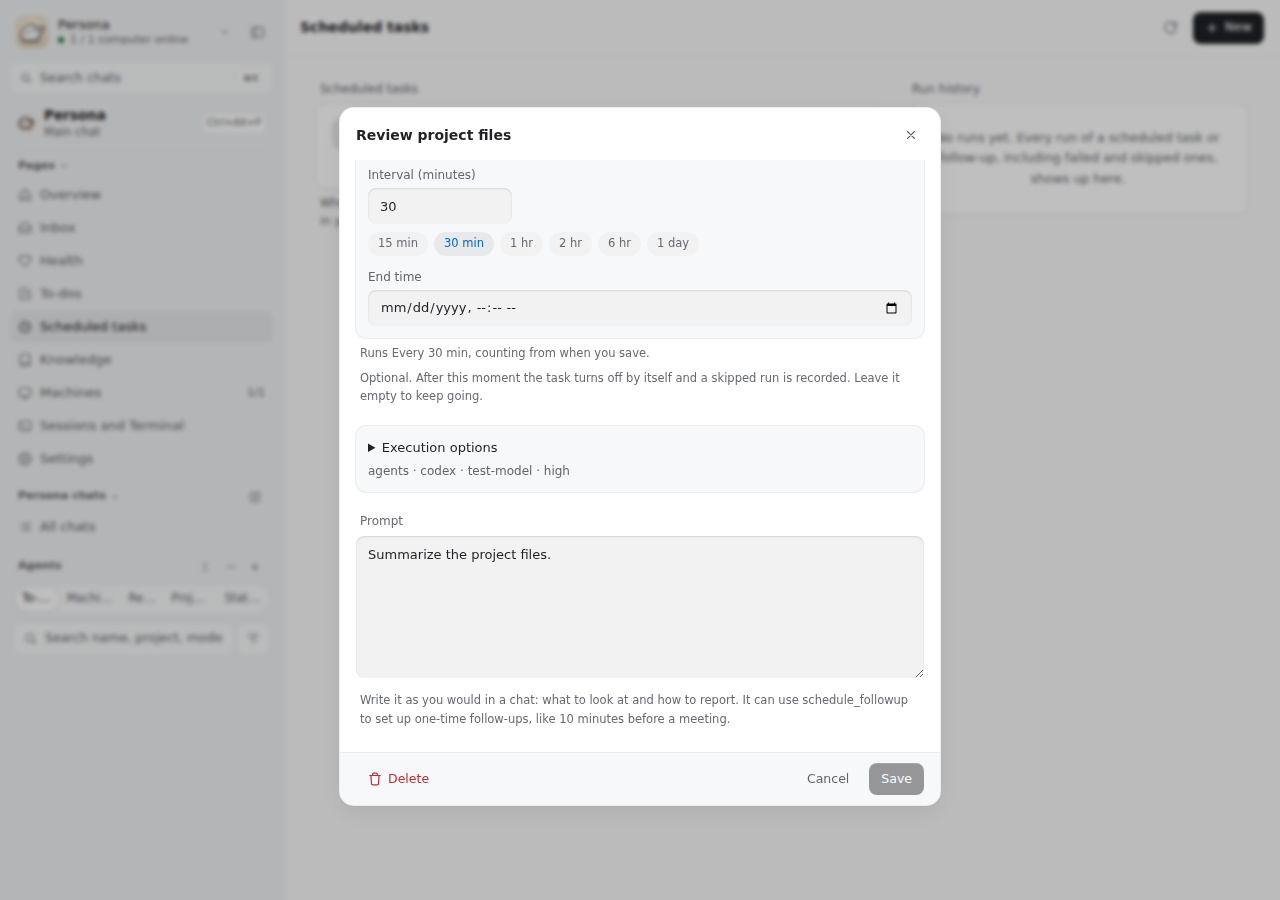
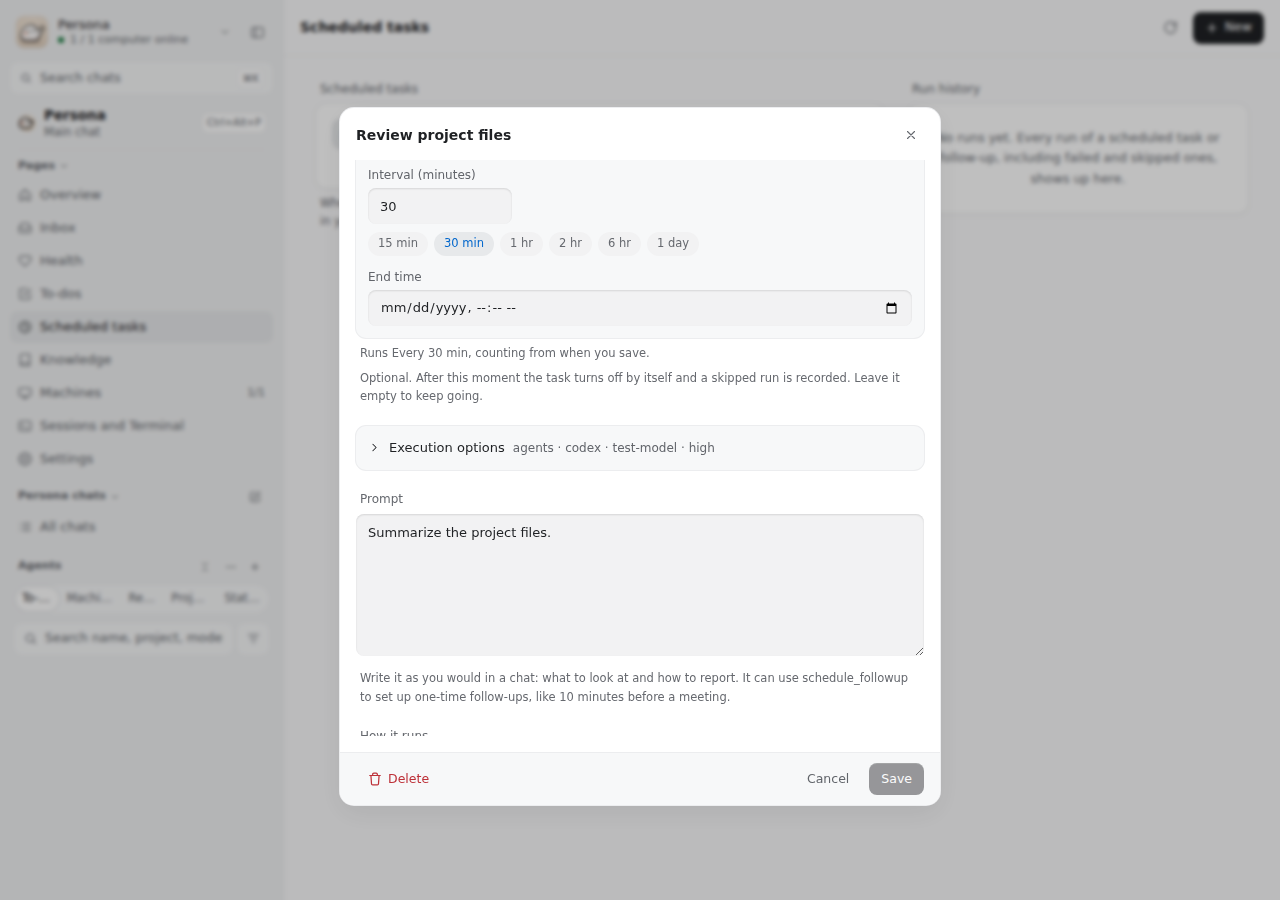
Unify task execution summaries and preserve legacy defaults

Changed region(s): [[0.2812, 0.7467, 0.7188, 0.8089], [0.2812, 0.4978, 0.4688, 0.6222]]

diff --git a/web/src/views/assistant/Routines.tsx b/web/src/views/assistant/Routines.tsx
@@ -7,6 +7,7 @@ import { api, ApiError, enc, errorText } from "../../lib/api";
 import { conversationPage } from "../../lib/conversation-page";
 import { shownManager, useChosenManager } from "../../lib/manager-choice";
 import { namedLauncher, providerIdNote, useProviderNames } from "../../lib/provider-names";
+import { machineLaunchers, type MachineLaunchers } from "../../lib/launcher-models";
 import { href, navigate, onLinkClick } from "../../lib/router";
 import { isAutoConversation } from "../../lib/conversation-origins";
 import {
@@ -42,9 +43,11 @@ function taskIcon(task: Task): IconName {
 const RUNS_SHOWN = 30;
 
 export function Routines({ onToggleSidebar }: { onToggleSidebar: () => void }) {
+  const manager = useChosenManager();
   const assistant = useStore((s) => s.assistant);
   const timezone = (assistant as { timezone?: string } | null)?.timezone;
   const [tasks, setTasks] = useState<Task[] | null>(null);
+  const [launcherNames, setLauncherNames] = useState<Record<string, MachineLaunchers["launchers"]>>({});
   const [runs, setRuns] = useState<Run[] | null>(null);
   const [error, setError] = useState("");
   const [runsError, setRunsError] = useState("");
@@ -57,6 +60,16 @@ export function Routines({ onToggleSidebar }: { onToggleSidebar: () => void }) {
   const nowMs = useNow(30_000);
   const now = useMemo(() => new Date(nowMs), [nowMs]);
   const seq = useRef(0);
+
+  useEffect(() => {
+    const controller = new AbortController();
+    const machines = [...new Set((tasks ?? []).map((task) => task.execution?.machine_id).filter((id): id is string => !!id))];
+    setLauncherNames({});
+    // One metadata read per execution computer, never one per task or a model discovery call.
+    void Promise.allSettled(machines.map(async (id) => [id, (await machineLaunchers(id, { purpose: "assistant", signal: controller.signal })).launchers] as const))
+      .then((results) => { if (!controller.signal.aborted) setLauncherNames(Object.fromEntries(results.flatMap((r) => r.status === "fulfilled" ? [r.value] : []))); });
+    return () => controller.abort();
+  }, [tasks, manager]);
 
   const load = useCallback(async () => {
     const mine = ++seq.current;
@@ -198,7 +211,7 @@ export function Routines({ onToggleSidebar }: { onToggleSidebar: () => void }) {
                 <SectionTitle>{t("assistant-routines.section_scheduled")}</SectionTitle>
                 <div className="divide-y divide-line overflow-hidden rounded-card bg-surface shadow-card">
                   {repeating.map((task) => (
-                    <TaskRow key={task.id} task={task} now={now} chats={chatsOf(task)} onOpen={() => setEditing(task)} onMenu={openRowMenu(task)} onToggle={(on) => void toggle(task, on)} />
+                    <TaskRow key={task.id} task={task} launchers={launcherNames[task.execution?.machine_id ?? ""]} now={now} chats={chatsOf(task)} onOpen={() => setEditing(task)} onMenu={openRowMenu(task)} onToggle={(on) => void toggle(task, on)} />
                   ))}
                 </div>
                 <p className="mt-1.5 px-1 text-[11.5px] leading-relaxed text-ink-3">
@@ -215,7 +228,7 @@ export function Routines({ onToggleSidebar }: { onToggleSidebar: () => void }) {
                 <SectionTitle>{t("assistant-routines.section_follow_ups")}</SectionTitle>
                 <div className="divide-y divide-line overflow-hidden rounded-card bg-surface shadow-card">
                   {oneOff.map((task) => (
-                    <TaskRow key={task.id} task={task} now={now} chats={chatsOf(task)} onOpen={() => setEditing(task)} onMenu={openRowMenu(task)} onToggle={(on) => void toggle(task, on)} />
+                    <TaskRow key={task.id} task={task} launchers={launcherNames[task.execution?.machine_id ?? ""]} now={now} chats={chatsOf(task)} onOpen={() => setEditing(task)} onMenu={openRowMenu(task)} onToggle={(on) => void toggle(task, on)} />
                   ))}
                 </div>
                 <p className="mt-1.5 px-1 text-[11.5px] leading-relaxed text-ink-3">{noHover ? t("assistant-routines.follow_ups_footer") : t("assistant-routines.follow_ups_footer_pointer")}</p>
@@ -301,12 +314,14 @@ export function Routines({ onToggleSidebar }: { onToggleSidebar: () => void }) {
 /** One task: its mark, title, rule in words, next and last run, what it runs with when not the default, a switch. */
 type TaskChat = { sid: string; title?: string; at?: string };
 
-function TaskRow({ task, now, chats, onOpen, onMenu, onToggle }: { task: Task; now: Date; chats: TaskChat[]; onOpen: () => void; onMenu: (at: MenuAt) => void; onToggle: (on: boolean) => void }) {
+function TaskRow({ task, launchers, now, chats, onOpen, onMenu, onToggle }: { task: Task; launchers?: MachineLaunchers["launchers"]; now: Date; chats: TaskChat[]; onOpen: () => void; onMenu: (at: MenuAt) => void; onToggle: (on: boolean) => void }) {
   // its launcher by the provider's display name, the startup ID in the line's tooltip (#5029): the current assistant's
   // providers, as its tasks are
-  const names = useProviderNames(useChosenManager() ?? "");
+  const providers = useProviderNames(useChosenManager() ?? "");
+  const names = launchers?.length ? [...launchers, ...providers] : providers;
   const with_ = runsWith(task, names);
-  const launcherId = task.launcher ? providerIdNote(namedLauncher(task.launcher, names)) : "";
+  const launcher = task.execution?.launcher || task.launcher;
+  const launcherId = launcher ? providerIdNote(namedLauncher(launcher, names)) : "";
   const last = lastRunText(task, now);
   const next = nextText(task, now);
   const until = untilText(task, now);
@@ -350,7 +365,7 @@ function TaskRow({ task, now, chats, onOpen, onMenu, onToggle }: { task: Task; n
         {with_ && (
           <div className={cx("mt-0.5 flex items-center gap-1 truncate text-[11.5px]", with_.danger ? "font-medium text-red" : "text-ink-3")}>
             <Icon name={with_.danger ? "info" : "gear"} size={11} className="shrink-0" />
-            <span className="truncate" title={launcherId || undefined}>{with_.text}</span>
+            <span className="truncate" title={task.execution ? [with_.text, launcherId].filter(Boolean).join("\n") : launcherId || undefined}>{with_.text}</span>
           </div>
         )}
         {last && (

diff --git a/web/src/views/assistant/Routines.test.tsx b/web/src/views/assistant/Routines.test.tsx
@@ -43,6 +43,8 @@ beforeEach(() => {
     if (path === "/api/v1/assistant/tasks") return Promise.resolve(tasksReply());
     if (path === "/api/v1/assistant/runs") return Promise.resolve(runsReply());
     if (path === "/api/v1/model-config") return Promise.resolve(json({ providers }));
+    if (path.startsWith("/api/v1/machines/box/launchers")) return Promise.resolve(json({ launchers: [{ name: "assistant", display_name: "Assistant", agent: "claude" }, { name: "shared", agent: "claude" }] }));
+    if (path.startsWith("/api/v1/machines/remote/launchers")) return Promise.resolve(json({ launchers: [{ name: "shared", agent: "codex" }] }));
     throw new Error(`Unexpected request: ${path}`);
   }));
   host = document.createElement("div");
@@ -204,6 +206,33 @@ describe("a change the hub refuses while the list cannot be read again", () => {
 });
 
 describe("what a task runs with (#5029)", () => {
+  it("resolves backend metadata on each execution computer rather than sharing the same alias across computers", async () => {
+    tasksReply = () => json({ tasks: [
+      { ...task, id: "local", title: "Local task", execution: { machine_id: "box", launcher: "shared", model: "local-model", effort: "high" } },
+      { ...task, id: "remote", title: "Remote task", execution: { machine_id: "remote", launcher: "shared", model: "remote-model", effort: "high" } },
+    ] });
+    runsReply = () => json({ runs: [] });
+    await render();
+    await flush();
+    expect(host.textContent).toContain("shared · claude · local-model · high");
+    expect(host.textContent).toContain("shared · codex · remote-model · high");
+    expect(calls.filter((path) => path.startsWith("/api/v1/machines/box/launchers"))).toHaveLength(1);
+    expect(calls.filter((path) => path.startsWith("/api/v1/machines/remote/launchers"))).toHaveLength(1);
+  });
+
+  it("shows the full effective configuration for inherited tasks and keeps older rows without it usable", async () => {
+    providers = [{ id: "launcher.assistant", name: "Assistant", agent: "claude" }];
+    tasksReply = () => json({ tasks: [{ ...task, execution: { machine_id: "box", launcher: "assistant", model: "opus", effort: "high" } }, { ...task, id: "legacy", title: "Legacy task" }] });
+    runsReply = () => json({ runs: [] });
+    await render();
+    await flush();
+    const row = [...host.querySelectorAll<HTMLElement>('[role="button"]')].find((el) => el.textContent?.includes(task.title))!;
+    expect(row.textContent).toContain("Assistant · claude · opus · high");
+    expect(row.querySelector<HTMLElement>('span[title*="opus"]')?.title).toContain("Assistant · claude · opus · high");
+    expect(host.textContent).toContain("Legacy task");
+    expect(host.textContent).not.toContain("undefined");
+  });
+
   it("names its launcher by the provider's display name with the ID in the tooltip; an rc alias by its ID", async () => {
     providers = [{ id: "launcher.relay-example-com", name: "我的中转 站", kind: "launcher" }];
     tasksReply = () => json({ tasks: [{ ...task, launcher: "relay-example-com" }, { ...task, id: "task-2", title: "Weekly review", launcher: "cc_glm" }] });

diff --git a/web/src/views/assistant/TaskExecutionFields.tsx b/web/src/views/assistant/TaskExecutionFields.tsx
@@ -5,10 +5,11 @@ import { modelPurpose, type ModelPurpose } from "../../lib/model-config";
 import { defaultModel, effortChoices, machineLaunchers, providerModels, takesEffort, type MachineLaunchers } from "../../lib/launcher-models";
 import { launcherTitle } from "../../lib/provider-names";
 import { shownManager } from "../../lib/manager-choice";
-import type { Task } from "../../lib/routines";
+import { taskExecutionSummary, type Task } from "../../lib/routines";
 import { useStore } from "../../lib/store";
 import { ModelPicker, type ModelList } from "../../ui/ModelPicker";
 import { Button } from "../../ui/atoms";
+import { Icon } from "../../ui/icons";
 import { Field, inputClass } from "./parts";
 import { t } from "../../i18n";
 
@@ -58,16 +59,16 @@ export function TaskExecutionFields({ draft, disabled, onChange }: { draft: Task
   const known = launchers?.launchers ?? [];
   const knownLauncher = known.find((l) => l.name === launcher);
   const agent = knownLauncher?.agent_type || knownLauncher?.agent || list?.agent || (draft.execution?.launcher === launcher ? draft.execution.agent : "");
-  const title = launcherTitle(launcher, known);
   const defaultLabel = t(inheritsAssistant ? "assistant-taskeditor.follow_assistant" : "assistant-taskeditor.follow_launcher");
   const defaultEffort = inherited.effort || selectedModel?.default_effort;
   const defaultModelID = selectedModel?.resolved || (selectedModel?.id !== "default" ? selectedModel?.id : "");
-  const summary = [title || t("assistant-taskeditor.follow_assistant"), agent !== title ? agent : "", model || defaultModelID || defaultLabel, draft.effort || defaultEffort || defaultLabel].filter(Boolean).join(" · ");
+  const summary = taskExecutionSummary({ launcher, agent, model: model || defaultModelID, effort: draft.effort || defaultEffort }, known, defaultLabel);
   const incompatibleOrigin = !!draft.session_id && !!(draft.launcher || draft.model || draft.effort || draft.cwd || draft.execution_machine_id);
   return <details onToggle={(e) => setExpanded(e.currentTarget.open)} className="rounded-card bg-inset p-3 shadow-hairline">
-    <summary className="cursor-pointer text-[13px] font-medium text-ink">
-      <span>{t("assistant-taskeditor.execution_options")}</span>
-      <span className="mt-1 block break-words text-[12px] font-normal text-ink-2">{summary}</span>
+    <summary className="flex cursor-pointer list-none items-center gap-2 text-[13px] font-medium text-ink [&::-webkit-details-marker]:hidden">
+      <Icon name="chevron" size={13} className={expanded ? "shrink-0" : "shrink-0 -rotate-90"} />
+      <span className="shrink-0">{t("assistant-taskeditor.execution_options")}</span>
+      <span className="min-w-0 flex-1 truncate text-[12px] font-normal text-ink-2" title={summary}>{summary}</span>
     </summary>
     <div className="mt-3 flex flex-col gap-3">
       <p className="text-[11.5px] leading-relaxed text-ink-3">{t("assistant-taskeditor.execution_inheritance")}</p>

diff --git a/web/src/lib/routines.ts b/web/src/lib/routines.ts
@@ -292,10 +292,22 @@ export function effortLabel(id?: string): string {
   return EFFORTS.find((e) => e.id === id)?.title ?? id;
 }
 
-/** What it runs with when that isn't the default, in a few words: "claude-fast · Auto · Low thinking"; `danger` for "Allow all".
+type TaskLauncherName = Named & { agent?: string; agent_type?: string };
+
+/** The same effective launcher/backend/model/effort line, with metadata from its execution computer. */
+export function taskExecutionSummary(ex: Pick<TaskExecution, "launcher" | "agent" | "model" | "effort">, names: readonly TaskLauncherName[] | undefined, fallback: string): string {
+  const title = launcherTitle(ex.launcher, names);
+  const known = names?.find((l) => l.name === ex.launcher);
+  const agent = ex.agent || known?.agent_type || known?.agent || (["claude", "codex"].includes(ex.launcher) ? ex.launcher : "");
+  return [title || fallback, agent !== title ? agent : "", ex.model || fallback, ex.effort || fallback].filter(Boolean).join(" · ");
+}
+
+/** The effective execution context, or a legacy task's explicit settings; `danger` for "Allow all".
  *  The launcher by its display name from `names` (#5029). */
-export function runsWith(task: Pick<Task, "launcher" | "permission_mode" | "effort">, names?: readonly Named[]): { text: string; danger: boolean } | null {
-  const parts = [task.launcher && launcherTitle(task.launcher, names), modeLabel(task.permission_mode), task.effort ? t("lib-routines.effort", { effort: effortLabel(task.effort) }) : ""].filter(Boolean);
+export function runsWith(task: Pick<Task, "launcher" | "model" | "permission_mode" | "effort" | "execution">, names?: readonly TaskLauncherName[]): { text: string; danger: boolean } | null {
+  const parts = (task.execution
+    ? [taskExecutionSummary(task.execution, names, t(task.launcher ? "assistant-taskeditor.follow_launcher" : "assistant-taskeditor.follow_assistant")), modeLabel(task.permission_mode)]
+    : [task.launcher && launcherTitle(task.launcher, names), task.model, modeLabel(task.permission_mode), task.effort ? t("lib-routines.effort", { effort: effortLabel(task.effort) }) : ""]).filter(Boolean);
   return parts.length ? { text: parts.join(" · "), danger: task.permission_mode === BYPASS } : null;
 }
 

diff --git a/web/src/lib/routines-execution.test.ts b/web/src/lib/routines-execution.test.ts
@@ -1,5 +1,5 @@
 import { expect, it } from "vitest";
-import { blankTask, sameTask, taskBody } from "./routines";
+import { blankTask, runsWith, sameTask, taskBody } from "./routines";
 
 it("saves task execution edits and clears overrides explicitly", () => {
   const saved = { ...blankTask(), id: "task", launcher: "codex", model: "test-model", cwd: "/work/project", execution_machine_id: "remote", model_revision: 3 };
@@ -11,4 +11,19 @@ it("saves task execution edits and clears overrides explicitly", () => {
   expect(sameTask(saved, { ...saved, cwd: "/work/project " })).toBe(false);
   expect(taskBody(saved, saved)).not.toHaveProperty("model");
   expect(taskBody(blankTask())).not.toHaveProperty("cwd");
+});
+
+it("shows resolved inherited and overridden execution without losing model or backend", () => {
+  const names = [{ name: "assistant", display_name: "Assistant", agent: "claude" }, { name: "agents", agent: "codex" }];
+  const inherited = { ...blankTask(), execution: { machine_id: "box", launcher: "assistant", model: "opus", effort: "high" } };
+  expect(runsWith(inherited, names)?.text).toBe("Assistant · claude · opus · high");
+  expect(runsWith({ ...inherited, launcher: "agents", execution: { machine_id: "box", launcher: "agents", model: "test-model", effort: "high" } }, names)?.text).toBe("agents · codex · test-model · high");
+});
+
+it("keeps historical unconfigured tasks sparse and preserves their legacy display", () => {
+  const legacy = JSON.parse('{"id":"old-task","title":"Daily check","prompt":"Check files","repeat":"daily","time":"09:00","enabled":true}');
+  expect(runsWith(legacy)).toBeNull();
+  const body = taskBody({ ...legacy, title: "Updated title" }, legacy);
+  for (const key of ["launcher", "model", "effort", "execution_machine_id", "cwd", "model_revision"]) expect(body).not.toHaveProperty(key);
+  expect(runsWith({ ...legacy, execution: { machine_id: "box", launcher: "claude" } })?.text).not.toMatch(/undefined|null/);
 });

diff --git a/server/internal/assistant/schedule_execution_test.go b/server/internal/assistant/schedule_execution_test.go
@@ -187,3 +187,50 @@ func TestTaskExecutionChecksAdvertisedModelEffort(t *testing.T) {
 		t.Fatalf("unsupported effort saved: %d %s", r.Code, r.Body.String())
 	}
 }
+
+func TestTaskExecutionLegacyDefaultsRemainInherited(t *testing.T) {
+	ctx := context.Background()
+	f := newFakeHub().withMachine()
+	st := newSettingsFaultStore()
+	// Persist a pre-configuration record with none of the new execution fields.
+	legacy := []map[string]any{{"id": "legacy", "title": "Old task", "prompt": "Check files", "repeat": "interval", "every_minutes": 30, "enabled": true}}
+	if err := st.PutSetting(ctx, tasksKey, legacy); err != nil {
+		t.Fatal(err)
+	}
+	s := newServiceOn(t, f, st)
+	main, err := s.resolveModel(ctx, "assistant")
+	if err != nil {
+		t.Fatal(err)
+	}
+	view, ok := s.taskView(ctx, "legacy")
+	if !ok || view.Execution == nil || view.Execution.Launcher != "claude" || view.Execution.Model != main.Model || view.Execution.Effort != main.Effort {
+		t.Fatalf("legacy defaults: %+v", view)
+	}
+	r := request(s, "PUT", "/api/v1/assistant/tasks/legacy", `{"title":"Edited old task","prompt":"Check files","repeat":"interval","every_minutes":30,"enabled":true}`)
+	if r.Code != http.StatusOK {
+		t.Fatalf("legacy edit: %s", r.Body.String())
+	}
+	var override modelRecord
+	if exists, err := st.Setting(ctx, modelRecordKey("task.legacy"), &override); err != nil || exists {
+		t.Fatalf("legacy edit created an override: %v %v %+v", exists, err, override)
+	}
+	first, err := runNow(t, s, "legacy")
+	if err != nil {
+		t.Fatal(err)
+	}
+	waitRuns(t, s, 1)
+	// An older stored conversation has no execution snapshot; defaults still resume it after a restart.
+	stored, _ := taskByID(s, "legacy")
+	stored.RunExecution = nil
+	if err := st.PutSetting(ctx, tasksKey, []Task{stored}); err != nil {
+		t.Fatal(err)
+	}
+	restarted := newServiceOn(t, f, st)
+	second, err := runNow(t, restarted, "legacy")
+	if err != nil || second.SessionID != first.SessionID {
+		t.Fatalf("legacy reuse: %+v %v", second, err)
+	}
+	if got := f.lastSend(t); got["launcher"] != "claude" {
+		t.Fatalf("legacy execution: %v", got)
+	}
+}

diff --git a/docs/design/DESIGN_SYSTEM.md b/docs/design/DESIGN_SYSTEM.md
@@ -2271,11 +2271,14 @@ as finished without verifying a star, and opens GitHub outside the app.
 ## Scheduled task execution options
 
 The web task editor serves people scheduling specialist work as an optional **Execution options** group, closed by
-default and placed before the prompt. Its disclosure always shows the effective launcher name, agent backend,
+default and placed before the prompt. Its title and configuration share one compact line, with ellipsis and a full
+text tooltip when narrow. Its disclosure always shows the effective launcher name, agent backend,
 model and thinking effort; repeated launcher/backend names are shown once. It reuses `Field`, native selects,
 `ModelPicker`, semantic surface/text tokens and the existing dialog. Every untouched control explicitly follows
 Assistant, with known inherited values shown. Selecting another launcher uses that agent's defaults for model and
-effort. Empty choices retain dynamic inheritance rather than pinning a copied value. The selected computer is shown
+effort. Empty choices retain dynamic inheritance rather than pinning a copied value. Task list rows use the same
+formatter and resolved `execution` context, including inherited model and effort; older responses without that
+context keep their legacy display and need no new fields. The selected computer is shown
 inside the group. Launcher and model discovery use that computer's chat-compatible capabilities; the model catalog
 is only requested when the group opens. A working directory
 is an existing path on that computer, explained under the field. Switching execution context may start a new chat;

diff --git a/docs/assistant/assistant.md b/docs/assistant/assistant.md
@@ -841,7 +841,9 @@ yet it silently reran the old prompt 3 minutes later): deleted tasks don't retry
 The web task editor's **Execution options**, before the prompt, is an advanced group for people who need a task to use
 a particular assistant backend, model, computer or directory. Its collapsed summary shows the launcher name, actual
 agent backend, model and thinking effort. Every untouched control explicitly follows Assistant, with known inherited
-values shown; the saved fields stay unset so future Assistant changes still apply. It reuses the chat's
+values shown; its title and summary share one line. Task rows use the same summary from their effective `execution`,
+while older responses without it keep their legacy display. The saved fields stay unset so future Assistant changes
+still apply. It reuses the chat's
 launcher list (`purpose=assistant`), model picker and capability-derived thinking choices; it never changes Main chat.
 Plain-text prompts work independently of rich input and content references.
 

diff --git a/docs/web/screenshots/task-execution/README.md b/docs/web/screenshots/task-execution/README.md
@@ -12,7 +12,8 @@ node web/e2e/task-execution.mjs http://127.0.0.1:5173 \
 
 The fixture checks Cron visibility, the inherited configuration summary before the prompt, and the explicit agent,
 model and thinking effort. It saves a working directory, reopens the task, and checks the saved values and model
-discovery. The standard screenshots show the collapsed execution summary. It captures light/dark at 1280 and 390
+discovery. Task-list screenshots show the complete effective execution line; standard editor screenshots show its
+single-line disclosure. It captures light/dark at 1280 and 390
 pixels, then opens the group, doubles text size and checks
 that form controls stay inside the dialog. Screenshots have been visually inspected. The largest-text form scrolls;
 its footer remains available. Native selects and the shared model picker keep full values available even when their
